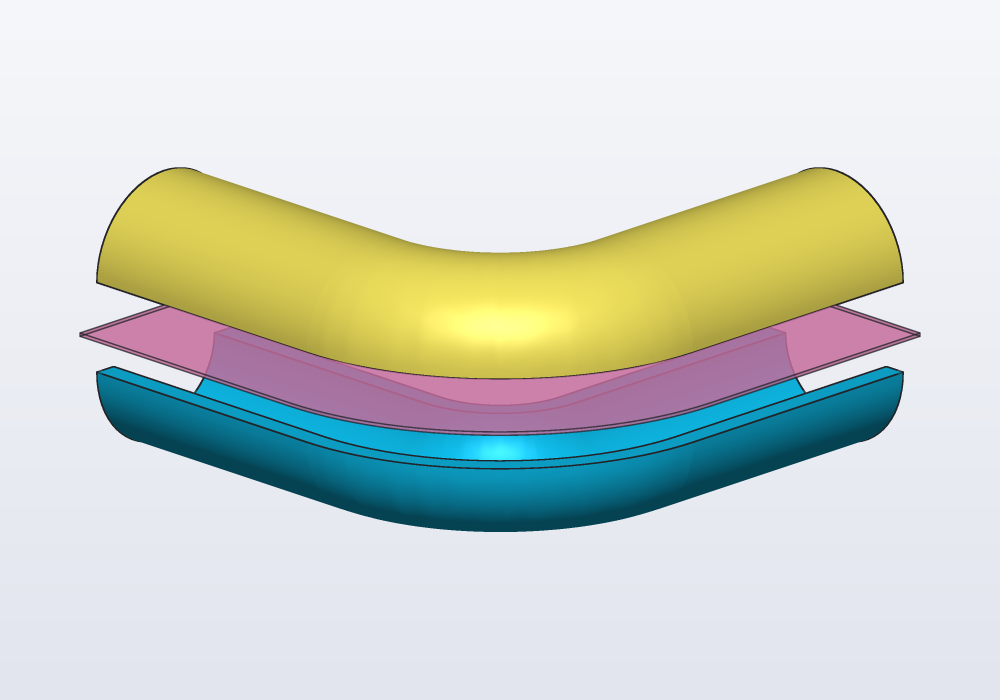
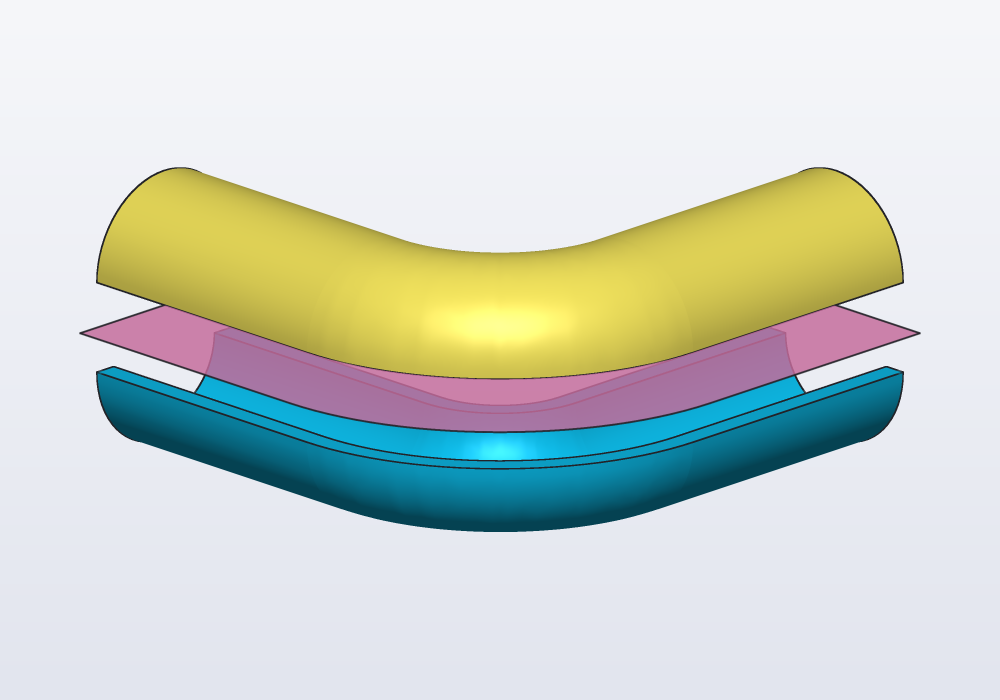
The ribbon in the surfaces guide's picture a veil, 0.05 mm

diff --git a/docs/guides/surfaces.md b/docs/guides/surfaces.md
@@ -89,7 +89,7 @@ Solid[] halves() => tube()
 // the ribbon itself, shown between the halves: a sheet has
 // no thickness to draw, so a hair-thin solid made from it
 @part("Pink Pop", alpha: 0.6, export: false)
-Solid sheet() => ribbon().thicken(0.3.mm);
+Solid sheet() => ribbon().thicken(0.05.mm);
 ```
 
 ![A bent tube split lengthwise by a ribbon swept along its path: the ribbon in pink, the two halves pushed apart from it](img/surfaces-tube-halves.png)
